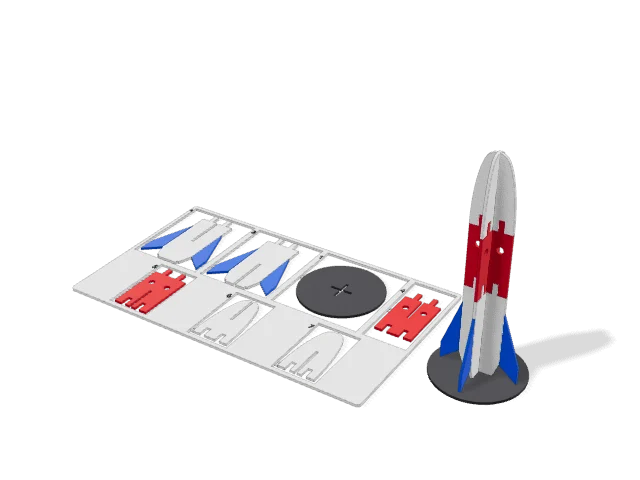
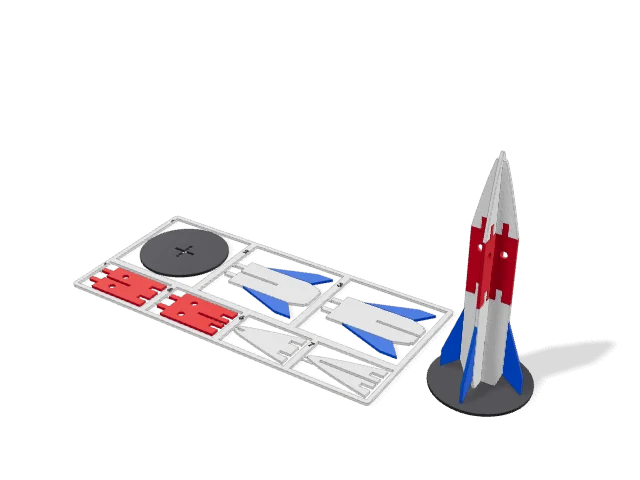
fix: Foguete com bico pontudo e Trator com capô fechado e grade do radiador

Changed region(s): [[0.0938, 0.3125, 0.9688, 0.875]]

diff --git a/src/geometry/kit/models/tractor.ts b/src/geometry/kit/models/tractor.ts
@@ -19,7 +19,7 @@ const BOSS_R = 5.5;
 const GLASS = { x0: 34, z0: 28, x1: 46, z1: 42 } as const; // janela vazada da cabine
 const LUG_COUNTS = { rear: 1, front: 0.66 } as const;
 
-type Bar = { id: string; label: string; plane: "xy" | "yz"; at: number; z?: [number, number]; x?: [number, number]; tabs: number[]; color: string };
+type Bar = { id: string; label: string; plane: "xy" | "yz"; at: number; z?: [number, number]; x?: [number, number]; tabs: number[]; color: string; /** largura própria das abas (padrão: a das travessas) */ tw?: number };
 
 export const tractorKit: KitTemplate = {
   id: "kitTractor",
@@ -54,15 +54,16 @@ export const tractorKit: KitTemplate = {
     const U = (...c: CS[]) => k(M.CrossSection.union(c));
 
     // lateral: longarina + cabine + capô + bossas dos eixos, com a janela da cabine vazada
-    const side0 = U(rect(M, k, 8 * u, 14 * u, 97 * u, 24 * u), rect(M, k, 18 * u, 14 * u, 52 * u, 52 * u), rect(M, k, 52 * u, 14 * u, 97 * u, 34 * u), disc(M, k, REAR.x * u, REAR.z * u, BOSS_R * u), disc(M, k, FRONT.x * u, FRONT.z * u, BOSS_R * u));
+    const side0 = U(rect(M, k, 8 * u, 14 * u, 97 * u, 24 * u), rect(M, k, 18 * u, 14 * u, 52 * u, 52 * u), rect(M, k, 52 * u, 14 * u, 97 * u, 34.5 * u), disc(M, k, REAR.x * u, REAR.z * u, BOSS_R * u), disc(M, k, FRONT.x * u, FRONT.z * u, BOSS_R * u));
     const bars: Bar[] = [
       { id: "piso", label: "Piso", plane: "xy", at: 19 * u, x: [31 * u, 50 * u], tabs: [35 * u, 46 * u], color: "body" },
       { id: "encosto", label: "Encosto do banco", plane: "yz", at: 28 * u, z: [22 * u, 44 * u], tabs: [27 * u, 40 * u], color: "cabin" },
       { id: "parabrisa", label: "Para-brisa", plane: "yz", at: 50 * u, z: [19 * u + t / 2 + 0.3, 48 * u - t / 2 - 0.2], tabs: [26 * u, 42 * u], color: "cabin" },
       { id: "teto", label: "Teto", plane: "xy", at: 48 * u, x: [20 * u, 50 * u], tabs: [26 * u, 44 * u], color: "cabin" },
-      { id: "capo", label: "Capô", plane: "xy", at: 28 * u, x: [52 * u, 97 * u], tabs: [58 * u, 90 * u], color: "body" },
+      { id: "capo", label: "Capô", plane: "xy", at: 32 * u, x: [52 * u, 97 * u], tabs: [58 * u, 90 * u], color: "body" },
+      { id: "grade", label: "Grade do radiador", plane: "yz", at: 94 * u, z: [15 * u, 32 * u - t / 2 - 0.3], tabs: [19 * u, 27 * u], color: "wheel", tw: Math.max(3, 4.5 * u) },
     ];
-    const windows = bars.flatMap((b) => b.tabs.map((c) => (b.plane === "xy" ? tabWindow(M, k, { cx: c, cy: b.at, tabW, t, fit }) : tabWindow(M, k, { cx: b.at, cy: c, tabW, t, fit, vertical: true }))));
+    const windows = bars.flatMap((b) => b.tabs.map((c) => (b.plane === "xy" ? tabWindow(M, k, { cx: c, cy: b.at, tabW: b.tw ?? tabW, t, fit }) : tabWindow(M, k, { cx: b.at, cy: c, tabW: b.tw ?? tabW, t, fit, vertical: true }))));
     const holes = [pinHole(M, k, { x: REAR.x * u, y: REAR.z * u, r: pinR, fit: holeFit }), pinHole(M, k, { x: FRONT.x * u, y: FRONT.z * u, r: pinR, fit: holeFit })];
     const glass = rect(M, k, GLASS.x0 * u, GLASS.z0 * u, GLASS.x1 * u, GLASS.z1 * u);
     const lateral = k(side0.subtract(U(glass, ...windows, ...holes)));
@@ -72,7 +73,7 @@ export const tractorKit: KitTemplate = {
       const [a0, a1] = b.plane === "xy" ? (b.x as [number, number]) : (b.z as [number, number]);
       const across = (lo: number, hi: number, c0: number, c1: number) => (b.plane === "xy" ? rect(M, k, c0, lo, c1, hi) : rect(M, k, lo, c0, hi, c1)); // (eixo da travessa, eixo da aba)
       const bodyR = across(-D / 2, D / 2, a0, a1);
-      const tabsR = b.tabs.flatMap((c) => [across(D / 2 - 0.01, D / 2 + t, c - tabW / 2, c + tabW / 2), across(-D / 2 - t, -D / 2 + 0.01, c - tabW / 2, c + tabW / 2)]);
+      const tabsR = b.tabs.flatMap((c) => [across(D / 2 - 0.01, D / 2 + t, c - (b.tw ?? tabW) / 2, c + (b.tw ?? tabW) / 2), across(-D / 2 - t, -D / 2 + 0.01, c - (b.tw ?? tabW) / 2, c + (b.tw ?? tabW) / 2)]);
       let cs = U(bodyR, ...tabsR);
       if (b.id === "capo" && p.chimney) cs = k(cs.subtract(tabWindow(M, k, { cx: 76 * u, cy: 0, tabW: Math.max(3, 3 * u), t, fit })));
       return { id: b.id, label: b.label, layers: [{ cs, color: b.color }] };
@@ -82,7 +83,7 @@ export const tractorKit: KitTemplate = {
     // escapamento: placa em pé sobre o capô, com aba que atravessa a janela do capô
     const chimneyTab = Math.max(3, 3 * u);
     if (p.chimney) {
-      const zt = 28 * u + t / 2;
+      const zt = 32 * u + t / 2;
       parts.push({ id: "escapamento", label: "Escapamento", layers: [{ cs: U(rect(M, k, 76 * u - 2.5 * u, zt, 76 * u + 2.5 * u, zt + 14 * u), rect(M, k, 76 * u - chimneyTab / 2, zt - t, 76 * u + chimneyTab / 2, zt + 0.01)), color: "wheel" }] });
     }
 
@@ -120,7 +121,7 @@ export const tractorKit: KitTemplate = {
       warnings,
       steps: [
         "Prenda as rodas {rodaTras} e {rodaFrente} nos furos das laterais {lateral}, de fora para dentro (pino por dentro da lateral).",
-        "Com as laterais de pé, passe as abas das travessas pelas janelas: {piso}, {encosto}, {parabrisa}, {capo} e por último o {teto}.",
+        "Com as laterais de pé, passe as abas das travessas pelas janelas: {piso}, {encosto}, {parabrisa}, a grade do radiador {grade}, o {capo} e por último o {teto}.",
         ...(p.chimney ? ["Encaixe o escapamento {escapamento} no furo do capô."] : []),
       ],
     };

diff --git a/src/geometry/kit/models/rocket.ts b/src/geometry/kit/models/rocket.ts
@@ -7,7 +7,9 @@ import type { KitEnv, KitPair, KitPart, KitTemplate, Placement } from "../types"
  * estágios se empilham por abas que entram em encaixes, e o conjunto fica de pé numa base de lançamento com dois rasgos em cruz.
  */
 
-const NOSE_TIP = 2.5; // meia-largura da ponta cega do bico (mm)
+const NOSE_TIP = 0.4; // meia-largura da ponta do bico (mm): quase um ponto
+const NOSE_CUT = 2.5; // a placa A para onde o bico fica mais estreito que a fenda + pernas (a B segue até a ponta)
+const NOSE_POW = 0.75; // < 1: o bico abaulado, como uma ogiva
 const STAGE_TOPS = [0.4, 0.68] as const; // fim do estágio 1 e do 2, em fração da altura
 const MIN_LIGAMENT = 8; // mm de peça inteira que sobra depois da fenda
 const NOSE_STEPS = 24;
@@ -23,7 +25,7 @@ function bodyPoints(d: Dim): [number, number][] {
   const right: [number, number][] = [[d.wn, 0], [d.wn, d.nh], [d.wb, d.nh], [d.w0, d.nh + d.bell], [d.w0, d.zb[1]]];
   for (let i = 1; i <= NOSE_STEPS; i++) {
     const s = i / NOSE_STEPS;
-    right.push([NOSE_TIP + (d.w0 - NOSE_TIP) * Math.sqrt(1 - s * s), d.zb[1] + s * (d.H - d.zb[1])]);
+    right.push([NOSE_TIP + (d.w0 - NOSE_TIP) * (1 - s) ** NOSE_POW, d.zb[1] + s * (d.H - d.zb[1])]);
   }
   return [...right, ...mirrorPts(right)];
 }
@@ -43,13 +45,18 @@ function dims(H: number, finPct: number, t: number): Dim {
 /** As abas de um estágio entram nos encaixes do de cima; ficam a `±plugX` do eixo. */
 const plugs = (d: Dim, H: number) => ({ x: 0.45 * d.w0, w: Math.max(3, 0.25 * d.w0), h: Math.max(5, 0.05 * H) });
 
+/** Altura (z) em que o bico fica com meia-largura NOSE_CUT: acima disso só a placa B segue até a ponta. */
+const noseCutZ = (d: Dim) => d.zb[1] + (1 - ((NOSE_CUT - NOSE_TIP) / (d.w0 - NOSE_TIP)) ** (1 / NOSE_POW)) * (d.H - d.zb[1]);
+
 type StagePlate = { cs: CS; fin?: CS };
 
 function stagePlate(env: KitEnv, d: Dim, body: CS, fins: CS, stage: 0 | 1 | 2, plane: "a" | "b", windows: boolean): StagePlate {
   const { M, k, t, fit } = env;
   const lo = stage === 0 ? -1 : d.zb[stage - 1], hi = d.zb[stage];
+  const cutA = stage === 2 && plane === "a"; // o bico da placa A termina onde a fenda e as pernas deixam de caber
+  const top = cutA ? noseCutZ(d) : hi;
   const pg = plugs(d, d.H);
-  const band = rect(M, k, -200, lo, 200, hi);
+  const band = rect(M, k, -200, lo, 200, top);
   let cs: CS = k(body.intersect(band));
   // abas no topo (entram no encaixe do estágio de cima)
   if (stage < 2) for (const sx of [-1, 1]) cs = k(cs.add(rect(M, k, sx * pg.x - pg.w / 2, hi - 0.01, sx * pg.x + pg.w / 2, hi + pg.h)));
@@ -61,8 +68,11 @@ function stagePlate(env: KitEnv, d: Dim, body: CS, fins: CS, stage: 0 | 1 | 2, p
     for (const sx of [-1, 1]) cs = k(cs.subtract(disc(M, k, sx * 0.5 * d.w0, z, r)));
   }
   // meia-fenda: A abre por cima, B por baixo; cada uma passa da metade para as duas se sobreporem
-  const height = hi - Math.max(lo, 0), depth = Math.min(height / 2 + 0.5, height - MIN_LIGAMENT);
-  const slot = plane === "a" ? crossLap(M, k, { x: 0, edge: hi, depth, from: "top", t, fit }) : crossLap(M, k, { x: 0, edge: Math.max(lo, 0), depth, from: "bottom", t, fit });
+  // estágio com bico: a B (inteira até a ponta) leva a fenda quase toda; a A, só o que falta para as duas se cobrirem
+  const height = hi - Math.max(lo, 0), nose = stage === 2;
+  const depthB = nose ? height - MIN_LIGAMENT : Math.min(height / 2 + 0.5, height - MIN_LIGAMENT);
+  const depth = plane === "b" ? depthB : nose ? Math.max(3, top - (Math.max(lo, 0) + depthB) + 1) : depthB;
+  const slot = plane === "a" ? crossLap(M, k, { x: 0, edge: top, depth, from: "top", t, fit }) : crossLap(M, k, { x: 0, edge: Math.max(lo, 0), depth, from: "bottom", t, fit });
   cs = k(cs.subtract(slot));
   const fin = stage === 0 ? k(k(fins.intersect(band)).subtract(slot)) : undefined;
   return { cs, fin };

diff --git a/src/geometry/kit/models/tractor.test.ts b/src/geometry/kit/models/tractor.test.ts
@@ -21,13 +21,13 @@ describe("Trator de montar", { timeout: 120_000 }, () => {
       const rep = checkAssembly(M, k, assemblySolids(M, k, insts, build.assembly), build.pairs ?? [], env.fit);
       expect(rep.collisions).toEqual([]);
       rep.pairs.forEach((q) => expect(q.ok, `${q.a} × ${q.b}: folga ${q.gap}`).toBe(true));
-      expect(rep.pairs.length).toBe(params.chimney === false ? 10 + 4 : 10 + 1 + 4);
+      expect(rep.pairs.length).toBe(params.chimney === false ? 12 + 4 : 12 + 1 + 4);
     });
   });
 
-  test("11 peças inteiras, presas à moldura, rodas de trás maiores que as da frente, e o montado tem o comprimento pedido", () => {
+  test("13 peças inteiras, presas à moldura, rodas de trás maiores que as da frente, e o montado tem o comprimento pedido", () => {
     const o = buildKitTemplate(ctx(), tractorKit, { showAssembled: true, title: "Trator" });
-    expect(o.meta!.pieces).toBe(2 + 5 + 1 + 4);
+    expect(o.meta!.pieces).toBe(2 + 6 + 1 + 4);
     o.meta!.gatesPerPiece.forEach((n) => expect(n).toBeGreaterThanOrEqual(2));
     const card = meshBounds(o.models[0].parts.map((q) => q.mesh))!;
     expect(card.max[0] - card.min[0]).toBeLessThanOrEqual(256);

diff --git a/docs/QA-modelos.md b/docs/QA-modelos.md
@@ -220,12 +220,12 @@ impressoras de mesa maior); sem o aviso do app, é **falha**.
 | Porta-chave de parede (keyHolder) | máximo | ⚠ aviso | Bambu ✓ · Orca ✓ · Projeto Bambu ✓ | – | – | – | – | "Porta-chave" não cabe na mesa de 256 mm (235,0 × 271,3 × 20,0 mm); Bambu recusa na mesa de 256 mm do A1 (o app avisa); Orca recusa na mesa de 256 mm do A1 (o app avisa); Projeto Bambu recusa na mesa de 256 mm do A1 (o app avisa); app: Furos de 4,5 mm para parafuso com bucha 6. Ganchos aguentam chaves; para bolsa, aumente a espessura.; app: "Porta-chave" tem 235 × 271 × 20 mm e passa da mesa de 256 mm: diminua o tamanho. |
 | Porta-chave de parede (keyHolder) | mínimo | ✅ ok | Bambu ✓ · Orca ✓ · Projeto Bambu ✓ | 44 | 29,8 | 1 | – | app: Furos de 4,5 mm para parafuso com bucha 6. Ganchos aguentam chaves; para bolsa, aumente a espessura. |
 | Porta-chave de parede (keyHolder) | padrão | ✅ ok | Bambu ✓ · Orca ✓ · Projeto Bambu ✓ | 141 | 114,0 | 1 | – | app: Furos de 4,5 mm para parafuso com bucha 6. Ganchos aguentam chaves; para bolsa, aumente a espessura. |
-| Foguete (kit de montar) (kitRocket) | máximo | ⚠ aviso | Bambu ✓ · Orca ✓ · Projeto Bambu ✓ | 147 | 63,6 | 1 | – | Orca: torre de purga passa da mesa na posição padrão do CLI (na tela, arraste a torre ou use Arrumar); Projeto Bambu: torre de purga passa da mesa na posição padrão do CLI (na tela, arraste a torre ou use Arrumar); app: O foguete de 290 mm não cabe no maior cartão: limitei a 145 mm. Para um maior, imprima as peças em mais de um cartão.; app: Para montar: destaque as peças dobrando os pontos de corte. Em cada estágio, encaixe 2 em 3, 4 em 5 e 6 em 7 pelas fendas (uma abre por cima, a outra por baixo). Empilhe: as abas de 2 e 3 entram nos encaixes de 4 e 5; as de 4 e 5, nos do bico 6 e 7. Encaixe o bocal do foguete nos rasgos da base 1.; app: Só 1 cartão(ões) de 236,1 × 149,9 mm cabem juntos numa mesa de 256 mm (você pediu 12): escolha um cartão menor para caber mais. |
-| Foguete (kit de montar) (kitRocket) | mínimo | ⚠ aviso | Bambu ✓ · Orca ✓ · Projeto Bambu ✓ | 40 | 10,0 | 1 | – | Orca: torre de purga passa da mesa na posição padrão do CLI (na tela, arraste a torre ou use Arrumar); Projeto Bambu: torre de purga passa da mesa na posição padrão do CLI (na tela, arraste a torre ou use Arrumar); app: Foguete pequeno: as janelinhas ficam com menos de 2,4 mm e podem não sair bem.; app: Espessura abaixo de 1,4 mm: as pernas do bico ficam frágeis.; app: A peça "Bico (A)" tem partes mais finas que o bico (0,4 mm): elas somem na impressão. Aumente o tamanho do modelo.; app: Para montar: destaque as peças dobrando os pontos de corte. Em cada estágio, encaixe 2 em 3, 4 em 5 e 6 em 7 pelas fendas (uma abre por cima, a outra por baixo). Empilhe: as abas de 2 e 3 entram nos encaixes de 4 e 5; as de 4 e 5, nos do bico 6 e 7. Encaixe o bocal do foguete nos rasgos da base 1. |
-| Foguete (kit de montar) (kitRocket) | padrão | ⚠ aviso | Bambu ✓ · Orca ✓ · Projeto Bambu ✓ | 107 | 47,8 | 1 | – | Orca: torre de purga passa da mesa na posição padrão do CLI (na tela, arraste a torre ou use Arrumar); Projeto Bambu: torre de purga passa da mesa na posição padrão do CLI (na tela, arraste a torre ou use Arrumar); app: Para montar: destaque as peças dobrando os pontos de corte. Em cada estágio, encaixe 2 em 3, 4 em 5 e 6 em 7 pelas fendas (uma abre por cima, a outra por baixo). Empilhe: as abas de 2 e 3 entram nos encaixes de 4 e 5; as de 4 e 5, nos do bico 6 e 7. Encaixe o bocal do foguete nos rasgos da base 1. |
-| Trator (kit de montar) (kitTractor) | máximo | ⚠ aviso | Bambu ✓ · Orca ✓ · Projeto Bambu ✓ | 145 | 59,6 | 1 | – | Orca: torre de purga em cima de uma peça depois do --arrange do CLI (na tela, arraste a torre ou use Arrumar); Projeto Bambu: torre de purga passa da mesa na posição padrão do CLI (na tela, arraste a torre ou use Arrumar); app: O trator de 180 mm não cabe no maior cartão: limitei a 90 mm.; app: Para montar: destaque as peças dobrando os pontos de corte. Prenda as rodas 9 a 10 e 11 a 12 nos furos das laterais 1 a 2, de fora para dentro (pino por dentro da lateral). Com as laterais de pé, passe as abas das travessas pelas janelas: 3, 4, 5, 7 e por último o 6. Encaixe o escapamento 8 no furo do capô.; app: Só 1 cartão(ões) de 237,8 × 150 mm cabem juntos numa mesa de 256 mm (você pediu 12): escolha um cartão menor para caber mais. |
-| Trator (kit de montar) (kitTractor) | mínimo | ⚠ aviso | Bambu ✓ · Orca ✓ · Projeto Bambu ✓ | 43 | 12,8 | 1 | – | Orca: torre de purga passa da mesa na posição padrão do CLI (na tela, arraste a torre ou use Arrumar); Projeto Bambu: torre de purga passa da mesa na posição padrão do CLI (na tela, arraste a torre ou use Arrumar); app: Trator pequeno: as janelas e as abas ficam apertadas. Aumente o comprimento ou a espessura se as travessas não encaixarem.; app: Para montar: destaque as peças dobrando os pontos de corte. Prenda as rodas 9 a 10 e 11 a 12 nos furos das laterais 1 a 2, de fora para dentro (pino por dentro da lateral). Com as laterais de pé, passe as abas das travessas pelas janelas: 3, 4, 5, 7 e por último o 6. Encaixe o escapamento 8 no furo do capô. |
-| Trator (kit de montar) (kitTractor) | padrão | ⚠ aviso | Bambu ✓ · Orca ✓ · Projeto Bambu ✓ | 107 | 45,3 | 1 | – | Orca: torre de purga passa da mesa na posição padrão do CLI (na tela, arraste a torre ou use Arrumar); Projeto Bambu: torre de purga passa da mesa na posição padrão do CLI (na tela, arraste a torre ou use Arrumar); app: Para montar: destaque as peças dobrando os pontos de corte. Prenda as rodas 9 a 10 e 11 a 12 nos furos das laterais 1 a 2, de fora para dentro (pino por dentro da lateral). Com as laterais de pé, passe as abas das travessas pelas janelas: 3, 4, 5, 7 e por último o 6. Encaixe o escapamento 8 no furo do capô. |
+| Foguete (kit de montar) (kitRocket) | máximo | ⚠ aviso | Bambu ✓ · Orca ✓ · Projeto Bambu ✓ | 145 | 62,3 | 1 | – | Orca: torre de purga passa da mesa na posição padrão do CLI (na tela, arraste a torre ou use Arrumar); Projeto Bambu: torre de purga passa da mesa na posição padrão do CLI (na tela, arraste a torre ou use Arrumar); app: O foguete de 290 mm não cabe no maior cartão: limitei a 145 mm. Para um maior, imprima as peças em mais de um cartão.; app: Para montar: destaque as peças dobrando os pontos de corte. Em cada estágio, encaixe 2 em 3, 4 em 5 e 6 em 7 pelas fendas (uma abre por cima, a outra por baixo). Empilhe: as abas de 2 e 3 entram nos encaixes de 4 e 5; as de 4 e 5, nos do bico 6 e 7. Encaixe o bocal do foguete nos rasgos da base 1.; app: Só 1 cartão(ões) de 236,1 × 149,9 mm cabem juntos numa mesa de 256 mm (você pediu 12): escolha um cartão menor para caber mais. |
+| Foguete (kit de montar) (kitRocket) | mínimo | ⚠ aviso | Bambu ✓ · Orca ✓ · Projeto Bambu ✓ | 40 | 10,0 | 1 | – | "Foguete (kit de montar)": parede/traço < 0,4 mm em Z 0,1, 0,4, 0,6, 0,8, 1,1 mm; Orca: torre de purga passa da mesa na posição padrão do CLI (na tela, arraste a torre ou use Arrumar); Projeto Bambu: torre de purga passa da mesa na posição padrão do CLI (na tela, arraste a torre ou use Arrumar); app: Foguete pequeno: as janelinhas ficam com menos de 2,4 mm e podem não sair bem.; app: Espessura abaixo de 1,4 mm: as pernas do bico ficam frágeis.; app: A peça "Bico (A)" tem partes mais finas que o bico (0,4 mm): elas somem na impressão. Aumente o tamanho do modelo.; app: Para montar: destaque as peças dobrando os pontos de corte. Em cada estágio, encaixe 2 em 3, 4 em 5 e 6 em 7 pelas fendas (uma abre por cima, a outra por baixo). Empilhe: as abas de 2 e 3 entram nos encaixes de 4 e 5; as de 4 e 5, nos do bico 6 e 7. Encaixe o bocal do foguete nos rasgos da base 1. |
+| Foguete (kit de montar) (kitRocket) | padrão | ⚠ aviso | Bambu ✓ · Orca ✓ · Projeto Bambu ✓ | 88 | 34,3 | 1 | – | Orca: torre de purga passa da mesa na posição padrão do CLI (na tela, arraste a torre ou use Arrumar); Projeto Bambu: torre de purga passa da mesa na posição padrão do CLI (na tela, arraste a torre ou use Arrumar); app: Para montar: destaque as peças dobrando os pontos de corte. Em cada estágio, encaixe 2 em 3, 4 em 5 e 6 em 7 pelas fendas (uma abre por cima, a outra por baixo). Empilhe: as abas de 2 e 3 entram nos encaixes de 4 e 5; as de 4 e 5, nos do bico 6 e 7. Encaixe o bocal do foguete nos rasgos da base 1. |
+| Trator (kit de montar) (kitTractor) | máximo | ⚠ aviso | Bambu ✓ · Orca ✓ · Projeto Bambu ✓ | 146 | 58,2 | 1 | – | Orca: torre de purga passa da mesa na posição padrão do CLI (na tela, arraste a torre ou use Arrumar); Projeto Bambu: torre de purga passa da mesa na posição padrão do CLI (na tela, arraste a torre ou use Arrumar); app: O trator de 180 mm não cabe no maior cartão: limitei a 90 mm.; app: Para montar: destaque as peças dobrando os pontos de corte. Prenda as rodas 10 a 11 e 12 a 13 nos furos das laterais 1 a 2, de fora para dentro (pino por dentro da lateral). Com as laterais de pé, passe as abas das travessas pelas janelas: 3, 4, 5, a grade do radiador 8, o 7 e por último o 6. Encaixe o escapamento 9 no furo do capô.; app: Só 1 cartão(ões) de 239,1 × 150 mm cabem juntos numa mesa de 256 mm (você pediu 12): escolha um cartão menor para caber mais. |
+| Trator (kit de montar) (kitTractor) | mínimo | ⚠ aviso | Bambu ✓ · Orca ✓ · Projeto Bambu ✓ | 43 | 12,8 | 1 | – | "Trator (kit de montar)": parede/traço < 0,4 mm em Z 0,3, 1,0 mm; Orca: torre de purga passa da mesa na posição padrão do CLI (na tela, arraste a torre ou use Arrumar); app: Trator pequeno: as janelas e as abas ficam apertadas. Aumente o comprimento ou a espessura se as travessas não encaixarem.; app: Para montar: destaque as peças dobrando os pontos de corte. Prenda as rodas 10 a 11 e 12 a 13 nos furos das laterais 1 a 2, de fora para dentro (pino por dentro da lateral). Com as laterais de pé, passe as abas das travessas pelas janelas: 3, 4, 5, a grade do radiador 8, o 7 e por último o 6. Encaixe o escapamento 9 no furo do capô. |
+| Trator (kit de montar) (kitTractor) | padrão | ⚠ aviso | Bambu ✓ · Orca ✓ · Projeto Bambu ✓ | 108 | 44,0 | 1 | – | Orca: torre de purga passa da mesa na posição padrão do CLI (na tela, arraste a torre ou use Arrumar); Projeto Bambu: torre de purga passa da mesa na posição padrão do CLI (na tela, arraste a torre ou use Arrumar); app: Para montar: destaque as peças dobrando os pontos de corte. Prenda as rodas 10 a 11 e 12 a 13 nos furos das laterais 1 a 2, de fora para dentro (pino por dentro da lateral). Com as laterais de pé, passe as abas das travessas pelas janelas: 3, 4, 5, a grade do radiador 8, o 7 e por último o 6. Encaixe o escapamento 9 no furo do capô. |
 | Botão ou manopla (knob) | máximo | ✅ ok | Bambu ✓ · Orca ✓ | 143 | 71,0 | 1 | – | – |
 | Botão ou manopla (knob) | mínimo | ✅ ok | Bambu ✓ · Orca ✓ | 4 | 0,7 | 1 | – | – |
 | Botão ou manopla (knob) | padrão | ✅ ok | Bambu ✓ · Orca ✓ | 19 | 6,4 | 1 | – | – |

diff --git a/CHANGELOG.md b/CHANGELOG.md
@@ -7,6 +7,7 @@ Formato: `## <versão> — <data>` e itens `- …` em linguagem simples.
 - **Kits de montar: Bicho e Baú**: em Modelos prontos (Presentes › Kits de montar) há uma galeria com o Bicho de 4 patas (coluna, fatias de corpo e de perna encaixadas, cabeça de cachorro, gato ou dinossauro e cauda), o Baú (caixa com tampa que abre por dobradiça de pino, em 3 tamanhos) e o Kit card por imagem. Cada kit tem variações prontas, cores por peça, cartão com pontos de corte e números, e o passo a passo de montagem
 - **Botões azuis no tema escuro**: o botão de ação azul passava a ficar mais claro ao passar o mouse e o texto branco ficava difícil de ler; agora o contraste é o recomendado
 - **Kit card: avião e helicóptero encaixam em todos os tamanhos**: do menor ao maior tamanho do modelo as abas e janelas continuam certas e nenhuma peça fica com lasca solta no cartão.
+- **Foguete e trator mais parecidos com o de verdade**: o bico do foguete agora é pontudo (a placa B vai até a ponta) e o trator ganhou o capô fechado, nivelado com as laterais, e a grade do radiador na frente.
 - **Kits de montar: carro e caminhão**: kits desenhados peça por peça, com laterais com janelas, chassi, capô, teto (e, no caminhão, parede da cabine e traseira) que se encaixam por abas, e rodas que giram no eixo (pino na lateral, trava apertada na ponta). Você escolhe o tamanho, as proporções, o tamanho da roda, as cores de cada grupo e pode pôr seu logo em relevo. Se não couber na mesa, o app reduz o tamanho sozinho e avisa; o cartão agora gira as peças e usa a mesa inteira quando precisa.
 - **Kit card: foguete e trator para montar**: dois kits projetados em Modelos prontos › Presentes › Kits de montar. O **Foguete** tem 3 estágios que se encaixam (cada um é um par de placas em cruz), aletas, janelinhas e uma base de lançamento; o **Trator** tem rodas grandes atrás com garras, cabine com para-brisa e teto, capô e escapamento, e as rodas giram se você pedir. Dá para mudar tamanho, aletas, garras, cores de cada parte, espessura e folga, e pôr uma arte em relevo; o app avisa quando o tamanho passa do que cabe no maior cartão.
 
